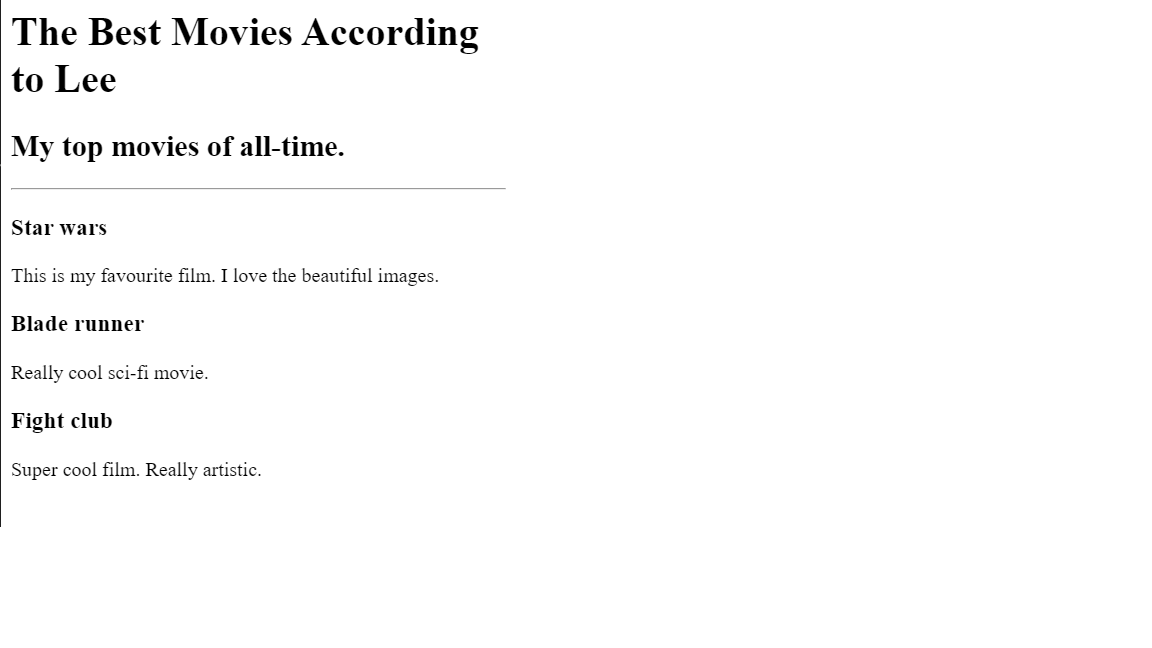
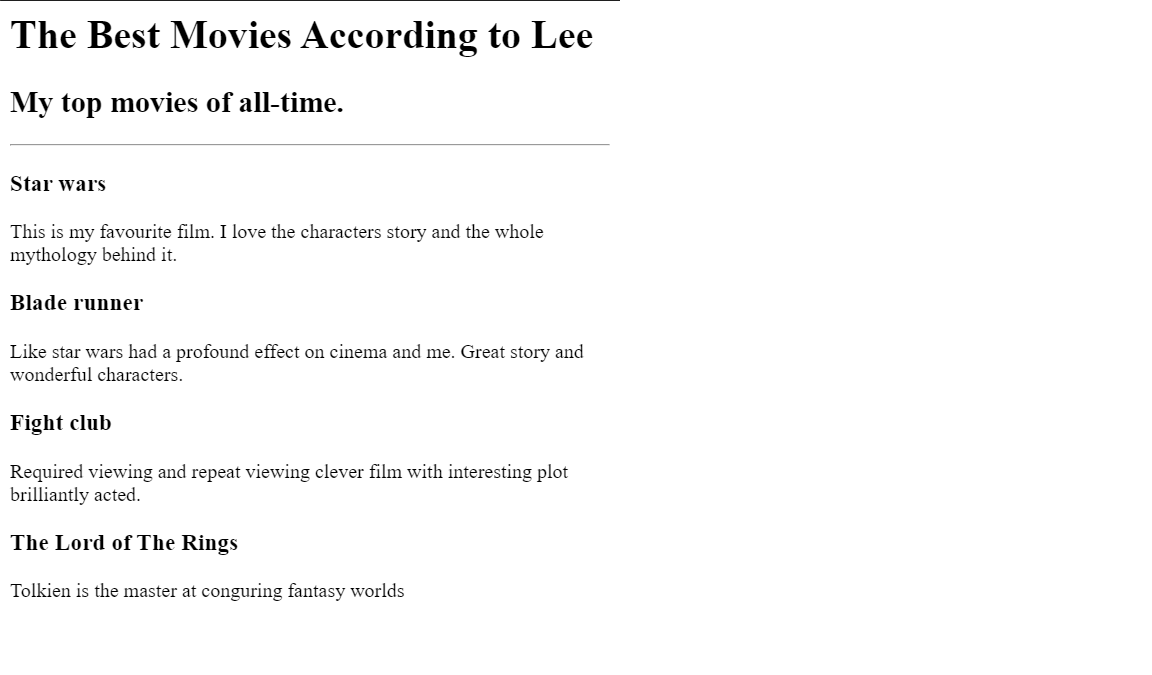
Add files via upload

diff --git a/4.3 HTML Porfolio Project/public/movie-ranking.html b/4.3 HTML Porfolio Project/public/movie-ranking.html
@@ -3,8 +3,13 @@
 <h2>My top movies of all-time.</h2>
 <hr />
 <h3>Star wars</h3>
-<p>This is my favourite film. I love the beautiful images.</p>
+<p>This is my favourite film. I love the characters story and 
+    the whole mythology behind it.</p>
 <h3>Blade runner</h3>
-<p>Really cool sci-fi movie.</p>
+<p>Like star wars had a profound effect on cinema and me.  Great 
+    story and wonderful characters.</p>
 <h3>Fight club</h3>
-<p>Super cool film. Really artistic.</p>
+<p>Required viewing and repeat viewing clever film with 
+    interesting plot brilliantly acted.</p>
+<h3>The Lord of The Rings</h3>
+<p>Tolkien is the master at conguring fantasy worlds</p>

diff --git a/4.3 HTML Porfolio Project/burger.html b/4.3 HTML Porfolio Project/burger.html
@@ -1,0 +1,11 @@
+<!DOCTYPE html>
+<bun topping="poppy seed and rye">
+    <tomato>
+        <cheese>smoked gouda with chilli</cheese>
+    </tomato>
+    <lettuce>
+        <sauce>
+            <meat></meat>
+        </sauce>
+    </lettuce>
+</bun>
